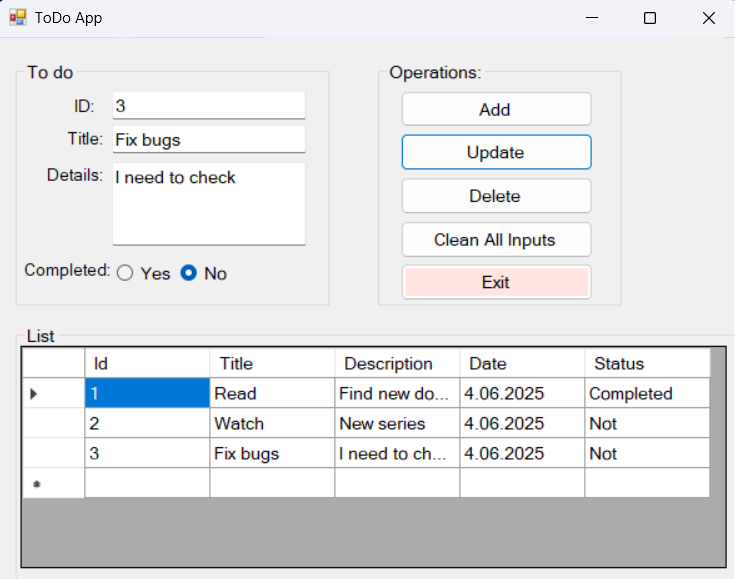
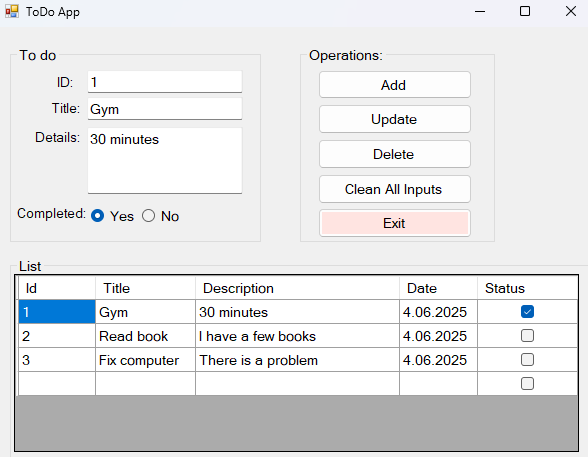
changed status type string to bool.

diff --git a/ToDo-App/ToDo App.cs b/ToDo-App/ToDo App.cs
@@ -35,7 +35,7 @@ namespace ToDo_App
             connection.Close();
         }
 
-        void AddATask(string title, string description, string status)
+        void AddATask(string title, string description, bool status)
         {
             connection.Open();
             SqlCommand command = new SqlCommand("INSERT INTO Tasks (Title, Description, Status) VALUES (@title, @description, @status)", connection);
@@ -53,7 +53,7 @@ namespace ToDo_App
         {
             string title = textTitle.Text;
             string description = textDescription.Text;
-            string status = radioYes.Checked ? "Completed" : "Not";
+            bool status = radioYes.Checked ? true: false;
             AddATask(title, description, status);            
         }
 
@@ -64,7 +64,7 @@ namespace ToDo_App
 
             string title = textTitle.Text.Trim();
             string description = textDescription.Text.Trim();
-            string status = radioYes.Checked ? "Completed" : "Not";
+            bool status = radioYes.Checked ? true : false;
 
             if (taskIdinput && chechTask(taskId))
             {
@@ -87,24 +87,6 @@ namespace ToDo_App
         private void btnExit_Click(object sender, EventArgs e)
         {
             this.Close();
-        }
-
-        private void dataViewPanel_CellDoubleClick(object sender, DataGridViewCellEventArgs e)
-        {
-            int selectedCell = dataViewPanel.SelectedCells[0].RowIndex;
-            textTaskId.Text = dataViewPanel.Rows[selectedCell].Cells[0].Value.ToString();
-            textTitle.Text = dataViewPanel.Rows[selectedCell].Cells[1].Value.ToString();
-            textDescription.Text = dataViewPanel.Rows[selectedCell].Cells[2].Value.ToString();
-
-            if (dataViewPanel.Rows[selectedCell].Cells[4].Value.ToString().Trim() == "Not")
-            {
-                radioNo.Checked = true;
-            }
-            else
-            {
-                radioYes.Checked = true;
-            }
-
         }
 
         private void btnDelete_Click(object sender, EventArgs e)
@@ -148,6 +130,24 @@ namespace ToDo_App
             textTitle.Text = null;
             textDescription.Text = null;
             radioYes.Checked = true;
+        }
+
+        private void dataViewPanel_CellDoubleClick(object sender, DataGridViewCellEventArgs e)
+        {
+            int selectedCell = dataViewPanel.SelectedCells[0].RowIndex;
+            textTaskId.Text = dataViewPanel.Rows[selectedCell].Cells[0].Value.ToString();
+            textTitle.Text = dataViewPanel.Rows[selectedCell].Cells[1].Value.ToString();
+            textDescription.Text = dataViewPanel.Rows[selectedCell].Cells[2].Value.ToString();
+
+            if (dataViewPanel.Rows[selectedCell].Cells[4].Value.ToString().Trim() == "False")
+            {
+                radioNo.Checked = true;
+            }
+            else
+            {
+                radioYes.Checked = true;
+            }
+
         }
     }
 }
